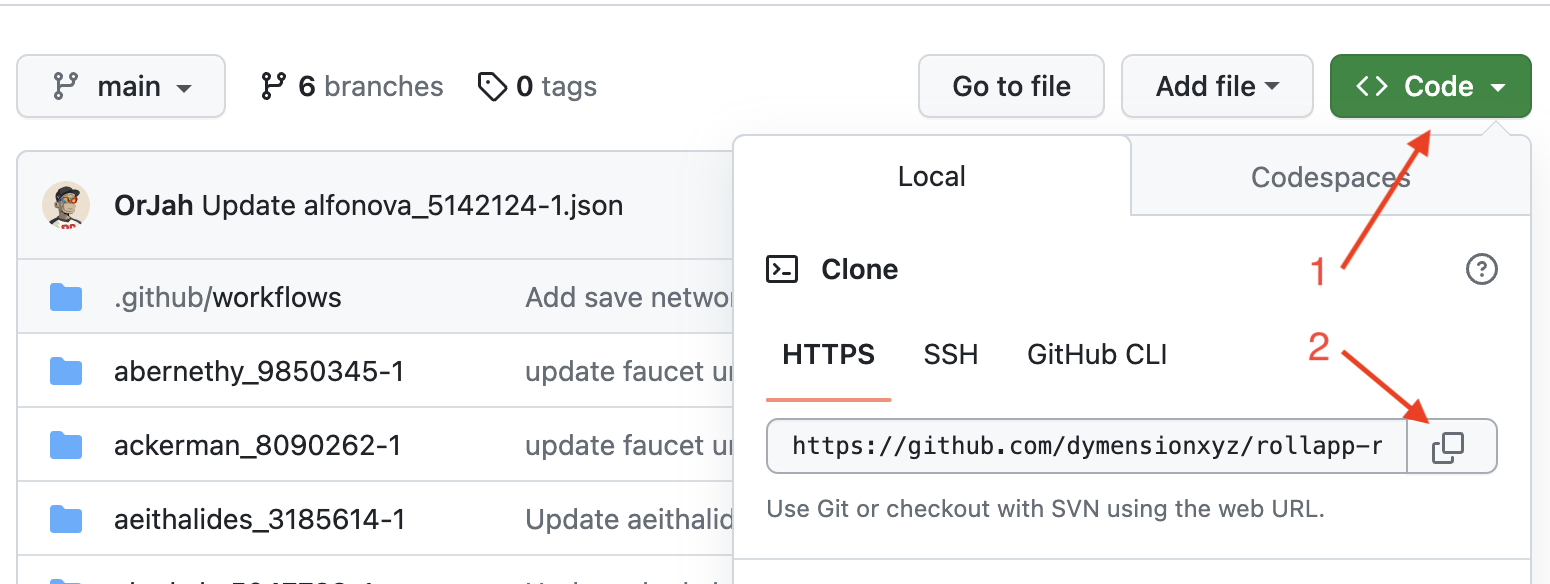
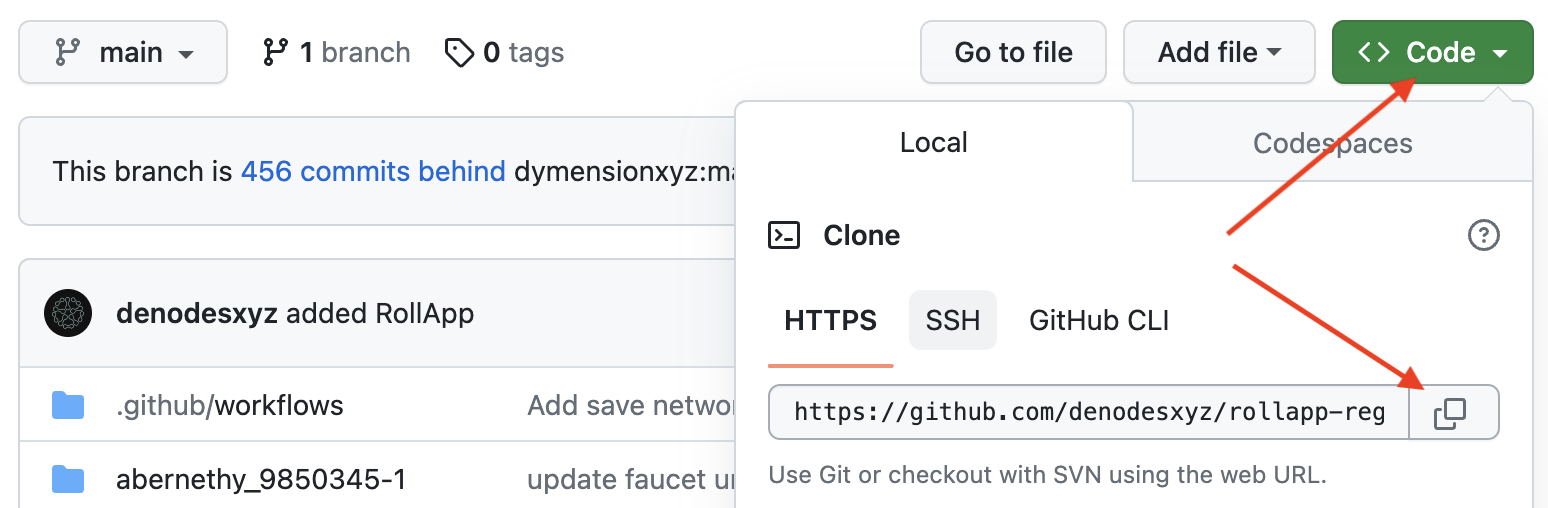
GITBOOK-40: change request with no subject merged in GitBook

diff --git a/dymension/the-roller-guide.md b/dymension/the-roller-guide.md
@@ -265,25 +265,77 @@ First, you need to make sure the Dymension Hub faucet is funded with tokens from
 
 2. Clone it:
 
+<figure><img src="../.gitbook/assets/dymension-clone.png" alt=""><figcaption></figcaption></figure>
 
-
-```
+```bash
 git clone https://github.com/<your-github-username>/rollapp-registry
 ```
 
 3. Create the RollApp directory and prepare config information and logo:
 
+```bash
+cd rollapp-registry
+```
 
+<pre class="language-bash"><code class="lang-bash"><strong>export ROLLAPP_ID=$(roller config show | grep RollappID | grep -o '".*"' | sed 's/"//g')
+</strong></code></pre>
 
+{% code overflow="wrap" %}
+```bash
+mkdir -p $ROLLAPP_ID/logos && cd $ROLLAPP_ID && touch $ROLLAPP_ID.json
+```
+{% endcode %}
 
+Next, place the logo in SVG, PNG, or JPG format in the `logos` directory. The size should not exceed 50 KB.
 
+Then export the RollApp configuration to the `<RollApp-ID>.json` file:
 
+```
+roller config export 2>&1 | tail -n +2 > $ROLLAPP_ID.json && cat $ROLLAPP_ID.json
+```
 
+<figure><img src="../.gitbook/assets/roller_config_export.png" alt=""><figcaption></figcaption></figure>
 
+In the `<RollApp-ID>.json` file, change the following fields:
 
+* `rpc` "http://\<your-public-ip-or-domain>:port" (default port 26657)
+* `rest` "http://\<your-public-ip-or-domain>:port" (default port 1317)
+* `rpc` in the `evm` section: "http://\<your-public-ip-or-domain>:port" (default port 8545)
+* `logo` Correct the file extension
 
+Optional:
 
+* `chainName` The RollApp name as it will appear on the Portal
+* `description` Description to be displayed on the portal
+* `website` Website URL
 
+Then commit your changes:
+
+{% code lineNumbers="true" %}
+```bash
+git add .
+git commit -m "added RollApp"
+git push -u origin main
+```
+{% endcode %}
+
+And create pull request:
+
+<figure><img src="../.gitbook/assets/dymension-contribute.png" alt=""><figcaption></figcaption></figure>
+
+<figure><img src="../.gitbook/assets/dymension-PR.png" alt=""><figcaption></figcaption></figure>
+
+Next pair the RollApp on the [Discord channel](https://discord.com/channels/956961633165529098/1140590139022782474) by entering the following command:
+
+```
+$pair <RollApp-ID>
+```
+
+Then create a thread in the post and send a link to the PR.
+
+<figure><img src="../.gitbook/assets/create-thread.png" alt=""><figcaption></figcaption></figure>
+
+You just have to wait for a moderator to check the PR and list it on the portal. After that, you should send a tweet about the listing with the required @Dymension tag and a link to RollApp on the portal. The link to the tweet will need to be sent to this same thread.
 
 ***
 
